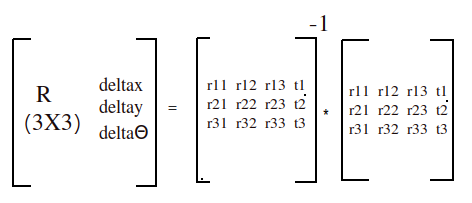
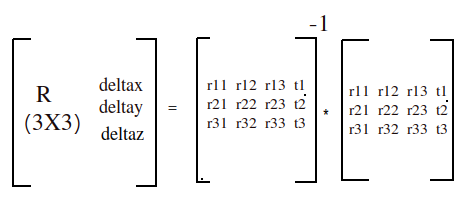
correction of parking explanation

Changed region(s): [[0.2076, 0.6207, 0.3263, 0.7094]]

diff --git a/README.md b/README.md
@@ -168,9 +168,11 @@ Robot to Target Homogenous Matrix:
 
 <img src="images/homocurgoal.png" width=35% height=35%>
 
+<br>
 
-Using <b> arctan2(deltay / deltax) </b>, we calculate the orientation angle that the robot should
-take, we wait until the robot fixes its angle until the error goes lower than 5 degrees, then let
+!!! Note that cv2.aruco.estimatePoseSingleMarkers() function returns <b> 3x1 rotational and translational vectors while for 3x4 homogenous matrix we need rotational matrix. </b> We convert our rotational vector to the rotational matrix using cv2.Rodrigues() function which is useful for both side of conversion. (rotational matrix to rotational vector or rotational vector to rotational matrix)
+
+Using <b> arctan2(deltay / deltax) </b>, we calculate the orientation angle that the robot should take, we wait until the robot fixes its angle until the error goes lower than 5 degrees, then let
 it go straight forward on x axis direction.  
 <br>
 During the orientation step, we calculate the angular z axis speed velocity of robot using <b> w = k_alpha * alfa </b> equation which gives us the  <b> velocity in radians </b>. Here, alfa is the result comes from <b> alfa = np.arctan2(deltay, deltax) </b> and <b> k_alpha </b> is a constant we determined as 1.2
@@ -208,15 +210,7 @@ w = -2.84
 
 ### Parking
 
-After reaching the final target position, the robot is parking according to the rotational
-direction of the target position. We obtain this information on deltaΘ coming from the robot-
-to-target homogenous matrix unlike the teta error which was coming from the arctan of
-deltay and deltax during the path finding. The basic difference between these two angle
-errors is that during the path finding, we rotate the robot in the target position direction by
-not taking account in which direction the target positions oriented exactly. In the parking
-step, we orient the robot to look exactly the same direction with the last target position. For
-this purpose, we stop the robot’s linear x speed and only adjust angular z speed until the
-error goes lower than 5 degrees.
+After reaching the final target position, the robot is parking according to the rotational direction of the target position. We convert the rotational matrix of final homogenous matrix (robot to target homogenous matrix) to the rotational vector using <b> cv2.Rodrigues </b> function again. This 3x1 rotational vector's last index contains the rotational error in z axes between robot and target orientation. Using this error, we stop the robot’s linear x speed and only adjust angular z speed until the error goes lower than 5 degrees. 
 
 ## Demo Video
 
@@ -230,5 +224,11 @@ Environment Record
 <video src="
 https://user-images.githubusercontent.com/20625822/145040514-c2bf7cc3-67a7-48c5-8d64-d74ba7110410.mp4" width="100%" height="100%">
 
+If you would like to test the code, please run the following commands in the same order:
 
+1) roscore 
+2) roslaunch turtlebot3_bringup turtlebot3_robot.launch (on robot side after connecting to the turtlebot3 with ssh connection)
+3) roslaunch ueye_cam rgb8.launch (to open the camera) (on remote PC)
+4) rosrun vs_project scripts/real_time_image_subscriber.py (on remote PC)
+5) rosrun vs_project scripts/controller.py (on remote PC)
 
